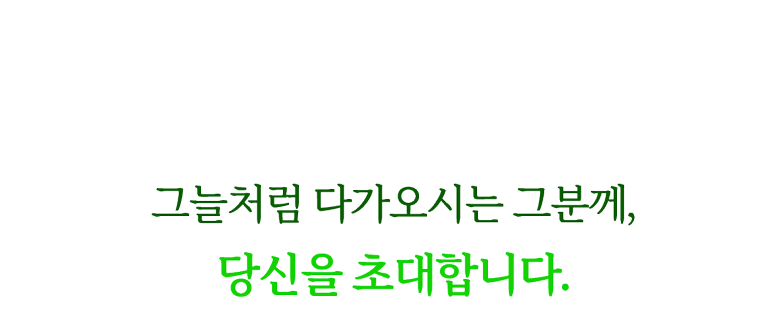
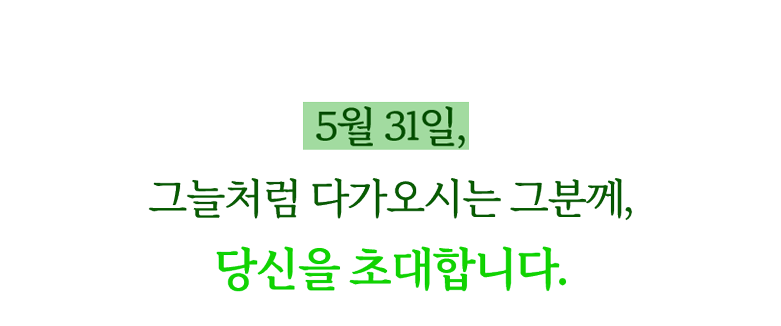
구미용으로 변환

Changed region(s): [[0.1844, 0.5521, 0.8297, 0.7055], [0.2766, 0.7362, 0.7375, 0.9202], [0.3688, 0.3067, 0.6146, 0.4601]]

diff --git a/index.html b/index.html
@@ -35,7 +35,7 @@
     <title>중고등부 새친구의 날</title>
     <meta property="og:url" content="https://teenager-invitation.netlify.app/" />
     <meta property="og:title" content="안디옥교회 중고등부 새친구의 날" />
-    <meta property="og:description" content="서울,분당 : 5/24(토) | 구미 : 5/31(토)" />
+    <meta property="og:description" content="구미안디옥교회 5/31(토)" />
     <meta name="apple-mobile-web-app-capable" content="yes" />
     <meta name="theme-color" content="#000000" />
 </head>
@@ -97,7 +97,7 @@
                     <img class="first-part reveal" src="img2/13.png" alt="" />
                 </a>    
             </div>
-            <div>
+            <!-- <div>
                 <img class="first-part reveal" src="img2/14.png" alt="leap1" />
             </div>
             <div>
@@ -112,10 +112,10 @@
                 <a href="https://naver.me/5W9v6F6L" target="_blank">
                     <img class="first-part reveal" src="img2/17.png" alt="leap1" />
                 </a>    
-            </div>
+            </div>-->
             <div>
                     <img class="first-part reveal" src="img2/18.png" alt="leap1" />
-            </div>
+            </div> 
             <div>
                 <a href="http://antiochi.org" target="_blank">
                     <img class="first-part reveal" src="img2/19.png" alt="leap1" />
